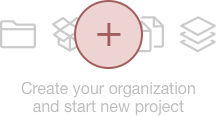
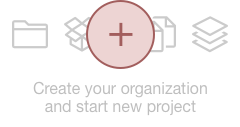
[NoOrg] remove space between img and button

diff --git a/src/components/Organization/NoOrgContainer.js b/src/components/Organization/NoOrgContainer.js
@@ -22,14 +22,17 @@ class NoOrgContainer extends Component {
       position: 'absolute',
       left: '50%',
       transform: 'translate(-50%, 0)',
-      marginTop: '8px',
+      // marginTop: '8px',
+    };
+    const pStyle = {
+      margin: '0 0 0',
     };
     return (
       <div style={articleStyles} href="/organization-new">
         <a href="/organization-new">
           <Image src={'src/images/add-org.png'} alt="Image" />
         </a>
-        <p />
+        <p style={pStyle} />
         <Button href="/organization-new" style={buttonDefaultStyle}>Create new organization</Button>
       </div>
     );
